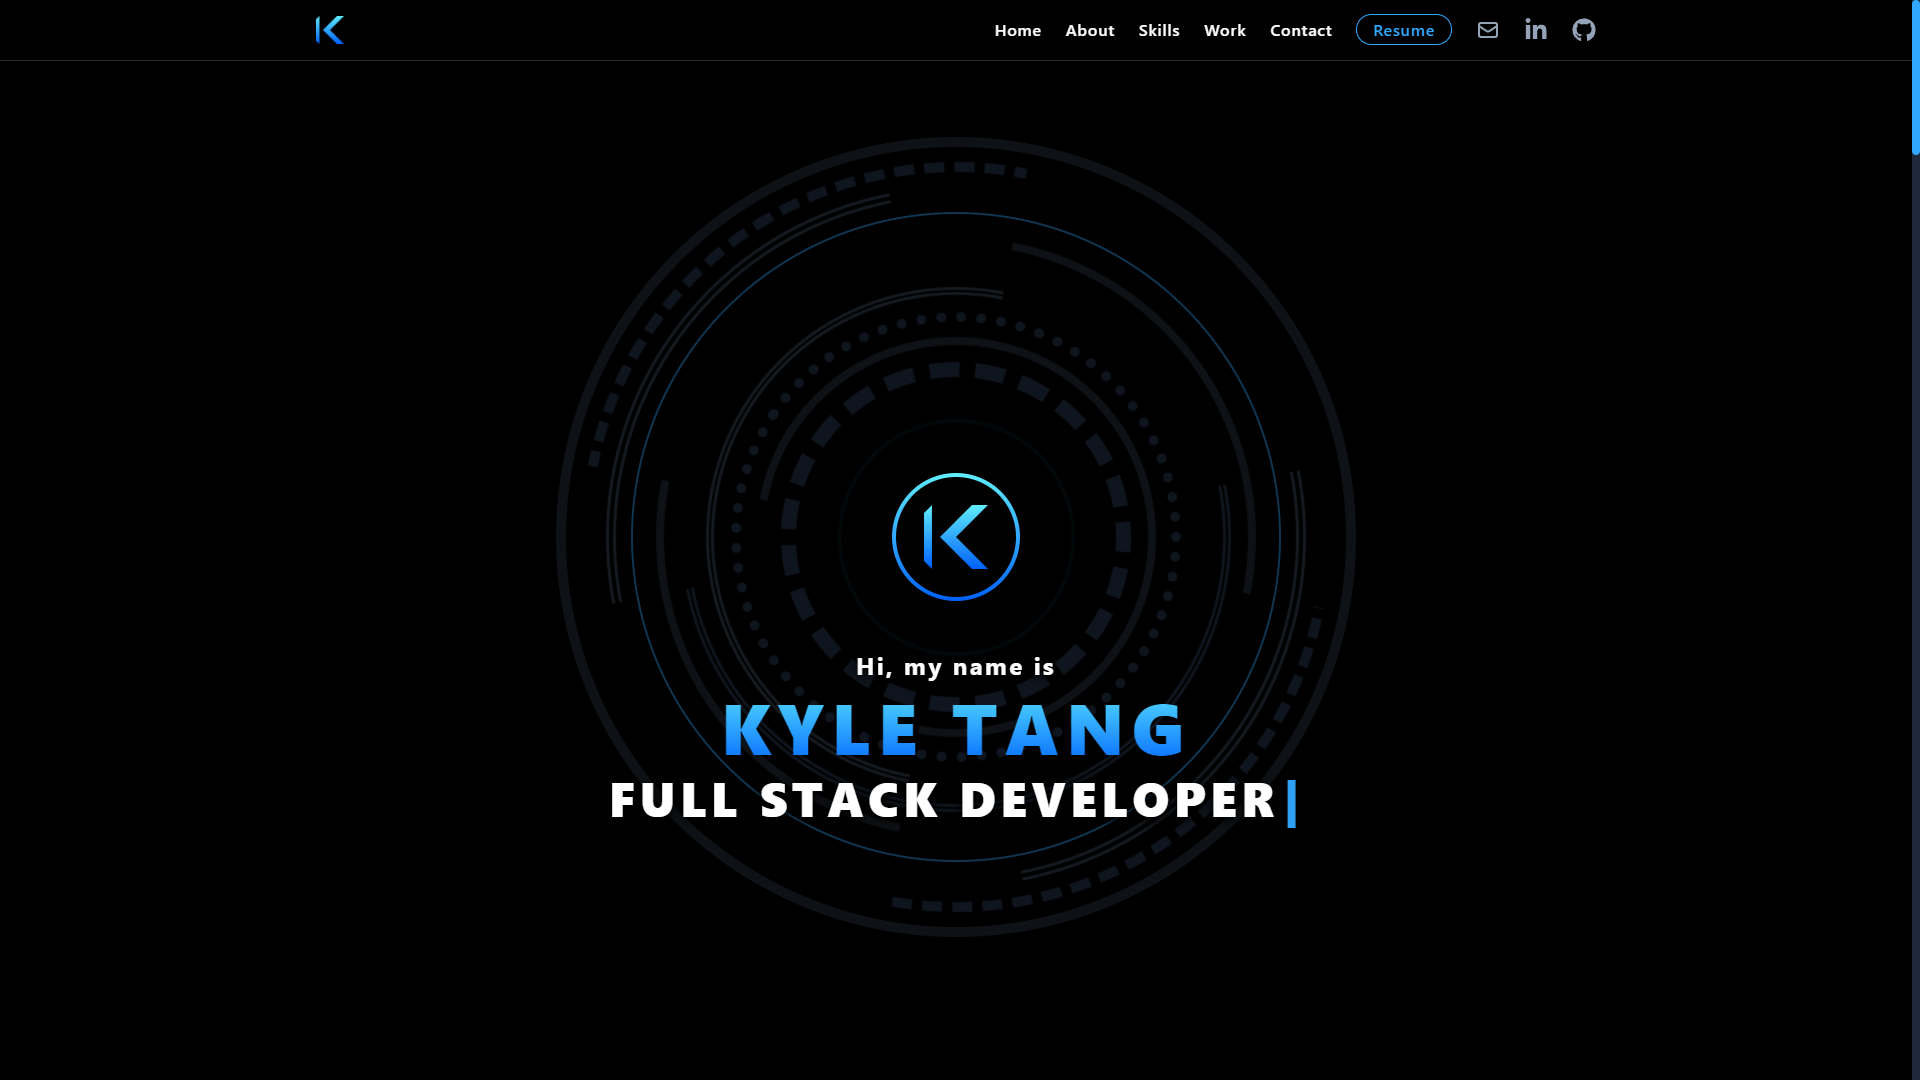
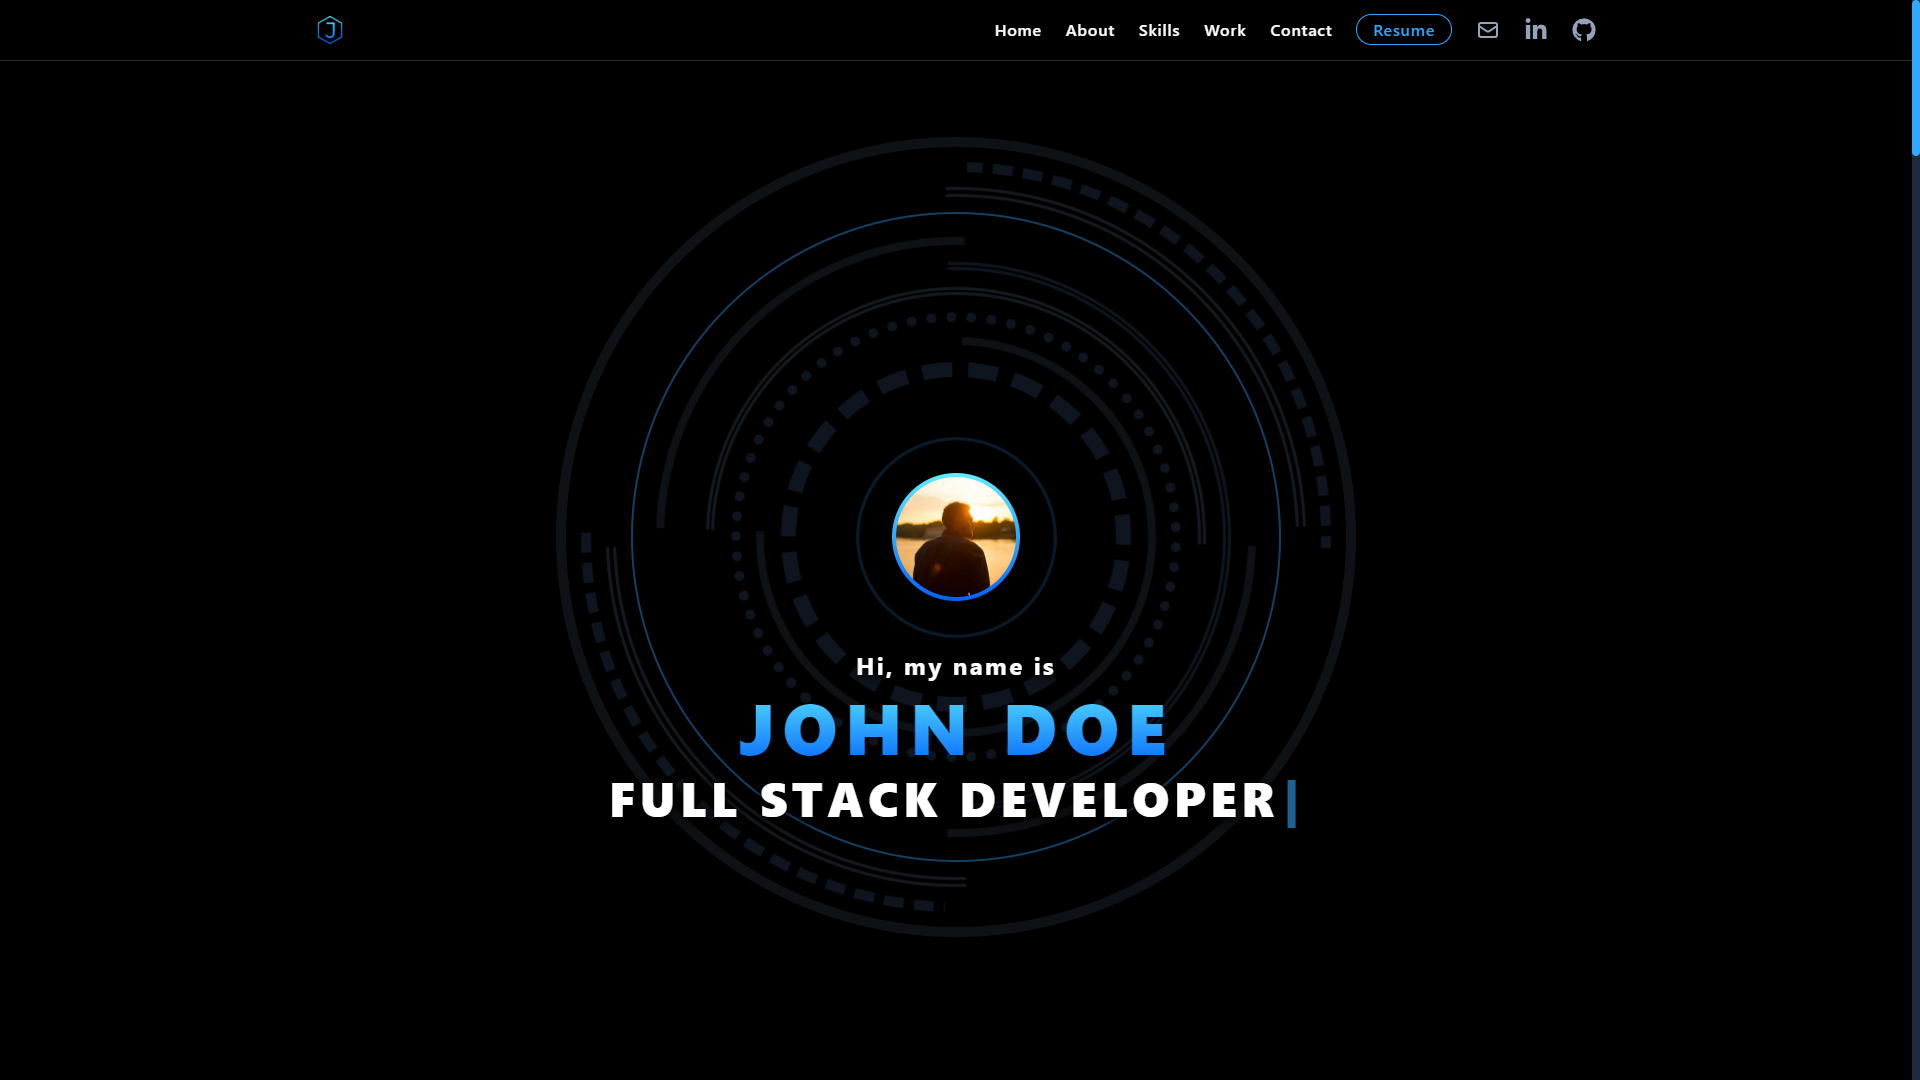
updated assets, constants, and sections with dummy information and images for demo

diff --git a/utils/constants.tsx b/utils/constants.tsx
@@ -2,56 +2,56 @@ import { FaGithub, FaLinkedinIn, FaRegSmileWink } from 'react-icons/fa';
 import { HiOutlineMail, HiCode, HiDatabase, HiOutlineDocumentText } from 'react-icons/hi';
 
 // Logo Image
-export const LogoImage = 'logo.svg';
+export const LogoImage = 'sample-logo.svg';
 
 // Profile Image
-export const profileImage = 'profile.png';
+export const profileImage = 'profile.jpg';
 
 // Name, will display in title, hero section, and footer
-export const devName = 'Kyle Tang';
+export const devName = 'John Doe';
 
 // Roles array for typewriter effect in hero
-export const roles = ['Full Stack Developer', 'Designer', 'Coder'];
+export const roles = ['Full Stack Developer', 'Software Engineer', 'Coffee Lover'];
 
 // Social URL Links
 export const socialLinks = [
   {
     name: 'email',
     icon: <HiOutlineMail />,
-    url: 'mailto:ktang1151@gmail.com',
+    url: 'mailto:example@email.com',
   },
   {
     name: 'linkedin',
     icon: <FaLinkedinIn />,
-    url: 'https://www.linkedin.com/in/kyle-tang-',
+    url: 'https://www.linkedin.com/',
   },
   {
     name: 'github',
     icon: <FaGithub />,
-    url: 'https://github.com/kt946',
+    url: 'https://github.com/',
   },
 ];
 
 // Resume URL link
-export const resumeLink = 'https://drive.google.com/file/d/1aUiFaAlnXzcr3Nrz8uu4RTZr9klqImxv/view?usp=sharing';
+export const resumeLink = '/';
 
 // Bio paragraphs for About section
 export const bioParagraphs = [
   {
     id: 'paragraph1',
-    text: `Hi everyone! My name is Kyle and I'm a full stack web developer with a B.A. in Psychology from Rutgers University and a passion for technology, creativity, and learning. I've completed a certificate in Full Stack Web Development from the Rutgers Coding Bootcamp.`,
+    text: `Lorem ipsum dolor sit amet consectetur, adipisicing elit. Ex earum tempore vel! Esse, autem? Dolorum est, iusto numquam dicta natus minima nihil recusandae, hic, commodi officia animi totam consequatur amet!`,
   },
   {
     id: 'paragraph2',
-    text: `As a quick learner and versatile problem-solver, I'm able to collaborate with teams to develop projects with simple, elegant designs and robust databases. I'm eager to demonstrate my newly acquired skills and build innovative applications that help me grow as a developer and provide users with immersive digital experiences.`,
+    text: `Lorem ipsum, dolor sit amet consectetur adipisicing elit. Provident magnam odio aut rerum! Eveniet esse, nulla repellendus, voluptatum asperiores exercitationem sunt dolorum veritatis pariatur iste, tempora officiis cupiditate magnam rem?`,
   },
   {
     id: 'paragraph3',
-    text: `When I'm not coding on my laptop, skimming through documentation, or searching Google for solutions to various issues, I enjoy cooking, movies, exercising, video games, playing guitar, and learning new skills and languages.`,
+    text: `Lorem ipsum dolor sit amet consectetur adipisicing elit. Repellendus, praesentium? Adipisci quaerat sit, doloremque temporibus neque excepturi deserunt earum laboriosam et velit! Minima, sequi debitis? Eligendi, rem aperiam. Est, impedit!`,
   },
   {
     id: 'paragraph4',
-    text: `And yes, I do like blue. Blue is cool.`,
+    text: `Lorem ipsum dolor sit amet consectetur adipisicing elit.`,
   },
 ];
 
@@ -59,15 +59,15 @@ export const bioParagraphs = [
 export const ctaData = {
   // for contact CTA
   contactCTA: {
-    message: `Don't be a stranger. Feel free to reach out and connect with me!`,
-    buttonMessage: 'Get in touch',
+    message: `A vero dolor libero molestias laborum est possimus repudiandae.`,
+    buttonMessage: 'To Contact',
     buttonIcon: <FaRegSmileWink />,
     linkURL: '#contact',
   },
   // for resume CTA
   resumeCTA: {
-    message: `Want to see more of what I can do? Check out my resume.`,
-    buttonMessage: 'To my resume',
+    message: `Officia ratione sunt fugit voluptas deserunt odit vitae ipsa!`,
+    buttonMessage: 'To Resume',
     buttonIcon: <HiOutlineDocumentText />,
     linkURL: resumeLink,
   },
@@ -79,51 +79,29 @@ export const skillCardData = [
   {
     id: 'frontEndSkills',
     icon: <HiCode />,
-    title: 'Front-End Development',
-    summary:
-      'I am passionate about bringing ideas to life and creating visually stunning projects using a variety of modern technologies and frameworks.',
-    skills: [
-      'HTML',
-      'CSS',
-      'JavaScript',
-      'TypeScript',
-      'jQuery',
-      'Responsive Design',
-      'Bootstrap',
-      'Bulma',
-      'React',
-      'Redux',
-      'Tailwind CSS',
-      'Next.js',
-      'Framer Motion',
-    ],
+    title: 'Developer',
+    summary: `Lorem ipsum dolor sit amet, consectetur adipisicing elit.`,
+    skills: ['HTML', 'CSS', 'JavaScript', 'TypeScript', 'Java', 'Python', 'C++'],
   },
   // for back-end
   {
     id: 'backEndSkills',
     icon: <HiDatabase />,
-    title: 'Back-End Development',
-    summary:
-      'I enjoy finding solutions to complex problems and developing powerful server-side code with a focus on efficiency and security.',
+    title: 'Engineer',
+    summary: `Lorem ipsum dolor sit, amet consectetur adipisicing elit.`,
     skills: [
-      'Git',
-      'Github',
+      'AWS',
+      'Azure',
       'JSON',
-      'AJAX',
+      'Google Cloud',
       'Node.js',
-      'NPM',
       'Express.js',
-      'REST',
+      'RESTful API',
       'SQL',
       'MySQL',
-      'Sequelize',
-      'MVC',
-      'Handlebars',
       'NoSQL',
       'MongoDB',
-      'Mongoose',
       'GraphQL',
-      'MERN',
     ],
   },
 ];
@@ -131,51 +109,51 @@ export const skillCardData = [
 // Project List for Work section
 export const projectList = [
   {
-    title: 'CodeFlow',
-    image: 'codeflow.png',
-    description: `CodeFlow is an interactive social media MERN stack SPA that gives developers a creative hub to show off their coding projects through posts, add friends, and join the discussion with other developers in threaded comments.`,
-    tech: ['MERN', 'GraphQL', 'JWT', 'Tagify', 'Bootstrap'],
-    projectLink: 'https://code-flow-app.herokuapp.com/',
-    githubLink: 'https://github.com/cnohilly/codeflow',
+    title: 'Project 1',
+    image: 'project-1.jpg',
+    description: `Lorem ipsum dolor sit amet consectetur, adipisicing elit. Sequi sunt pariatur quas aliquid fugit. Saepe magnam, dolores magni ipsa facilis similique quae cupiditate at non enim sunt eveniet dolorem animi.`,
+    tech: ['React.js', 'Node.js', 'Express.js', 'MongoDB', 'HTML/CSS'],
+    projectLink: '/',
+    githubLink: '/',
   },
   {
-    title: 'Watch It Later',
-    image: 'watch-it-later.png',
-    description: `A full-stack app allowing users to search for movies and TV shows, create accounts to add them to their personal watchlist saved in a SQL database, leave comments, and rate movies.`,
-    tech: ['Node', 'MySQL', 'Sequelize', 'Handlebars', 'Bulma', 'MVC', 'TMDB API'],
-    projectLink: 'https://watch-it-later.herokuapp.com/',
-    githubLink: 'https://github.com/cnohilly/watch-it-later',
+    title: 'Project 2',
+    image: 'project-2.jpg',
+    description: `Lorem ipsum dolor sit amet consectetur adipisicing elit. Reiciendis aut voluptatibus, aperiam quos, eos placeat nisi fugiat id temporibus minus magni dolorum necessitatibus non? Explicabo rem doloremque dolor debitis autem?`,
+    tech: ['Next.js', 'Tailwind CSS', 'PostgreSQL', 'TypeScript ', 'GraphQL'],
+    projectLink: '/',
+    githubLink: '/',
   },
   {
-    title: 'Movie TV Watchlist',
-    image: 'movie-tv-watchlist.png',
-    description: `Looking for something to watch? Use this app to search for movies and TV shows through the TMDB's API as well as add them to a personal watchlist saved in the browser's local storage.`,
-    tech: ['HTML', 'CSS', 'JavaScript', 'Bulma', 'TMDB API'],
-    projectLink: 'https://cnohilly.github.io/movie-tv-watchlist/',
-    githubLink: 'https://github.com/cnohilly/movie-tv-watchlist',
+    title: 'Project 3',
+    image: 'project-3.jpg',
+    description: `Lorem ipsum dolor sit amet consectetur adipisicing elit. Fugit rerum error veniam totam itaque ipsum soluta iusto, a, libero nesciunt, eum quidem consequatur modi dolore ad delectus at ducimus saepe.`,
+    tech: ['Svelte', 'Django', 'Redis', 'AWS Amplify', 'Kotlin '],
+    projectLink: '/',
+    githubLink: '/',
   },
   {
-    title: 'Shop-Shop',
-    image: 'shop-shop.png',
-    description: `An e-commerce full-stack MERN application that uses Redux to manage global state. Users can create accounts to add products to their shopping cart and checkout using the Stripe API.`,
-    tech: ['MERN', 'JavaScript', 'GraphQL', 'JWT', 'Stripe', 'Redux'],
-    projectLink: 'https://shop-shop-75043.herokuapp.com',
-    githubLink: 'https://github.com/kt946/awesome-shop-shop-redux',
+    title: 'Project 4',
+    image: 'project-4.jpg',
+    description: `Lorem ipsum dolor sit amet consectetur adipisicing elit. Sit, rerum neque nulla optio atque voluptates expedita! Porro veritatis nemo illo ex ea saepe dignissimos, a eum dolore fuga consequatur enim.`,
+    tech: ['Next.js', 'Flask', 'Elasticsearch', 'Kubernetes', 'Gatsby'],
+    projectLink: '/',
+    githubLink: '/',
   },
   {
-    title: 'Pizza Hunt',
-    image: 'pizza-hunt.png',
-    description: `Hungry for some pizza but can't decide on your toppings? Check out Pizza Hunt, an app that uses MongoDB to store custom pizza recipies and user comments.`,
-    tech: ['Node', 'Express', 'NoSQL', 'MongoDB', 'Mongoose'],
-    projectLink: 'https://pizza-hunt-13648.herokuapp.com/',
-    githubLink: 'https://github.com/kt946/pizza-hunt',
+    title: 'Project 5',
+    image: 'project-5.jpg',
+    description: `Lorem ipsum dolor sit amet consectetur adipisicing elit. Illo fugit dolore ipsum inventore ratione provident consequuntur in expedita odit, harum quod necessitatibus asperiores magni aut hic, dolorem officia saepe dignissimos.`,
+    tech: ['Ember.js', 'Spring', 'Cassandra', 'Firebase', 'Swift'],
+    projectLink: '/',
+    githubLink: '/',
   },
   {
-    title: 'The Epic Tech Blog',
-    image: 'the-epic-tech-blog.png',
-    description: `A CMS-style blog site using the MVC paradigm for discussing technology through blog posts and comments.`,
-    tech: ['Node', 'Express', 'MySQL', 'Handlebars', 'Bootstrap', 'MVC'],
-    projectLink: 'https://sheltered-mesa-54132.herokuapp.com',
-    githubLink: 'https://github.com/kt946/epic-tech-blog-MVC',
+    title: 'Project 6',
+    image: 'project-6.jpg',
+    description: `Lorem ipsum, dolor sit amet consectetur adipisicing elit. Enim, corporis illum cumque inventore, quibusdam tempora tempore, vitae cum minima similique consequatur deserunt ad molestiae esse commodi saepe. Eaque, rerum ipsa!`,
+    tech: ['JavaScript', 'HTML/CSS', 'React', 'Express', 'MongoDB'],
+    projectLink: '/',
+    githubLink: '/',
   },
 ];

diff --git a/components/Skills.tsx b/components/Skills.tsx
@@ -25,7 +25,7 @@ const Skills = (props: Props) => {
           className="mb-12 md:mb-24"
         >
           <h2 className="section-title">Skills</h2>
-          <h3 className="section-subtitle">Crafting digital solutions with style</h3>
+          <h3 className="section-subtitle">Sollicitudin tempor id eu nisl</h3>
         </motion.div>
 
         <motion.p
@@ -38,8 +38,8 @@ const Skills = (props: Props) => {
           transition={{ type: 'tween', ease: 'easeOut', duration: 1 }}
           className="section-subtitle-2"
         >
-          Web development is a never-ending quest, and I&apos;m always striving to improve myself, one skill set at a
-          time.
+          Lorem ipsum dolor sit amet consectetur adipisicing elit. Iste unde qui laborum cupiditate, nobis sequi dicta
+          assumenda ullam ducimus tempore ab doloremque labore rem a, blanditiis eos provident. Ratione, consequatur?
         </motion.p>
 
         {/* Skills Container */}
@@ -54,9 +54,11 @@ const Skills = (props: Props) => {
           className="w-full max-w-full flex flex-col md:flex-row justify-center space-y-8 md:space-y-0 md:space-x-8"
         >
           {skillCardData.map((skillCard) => (
-            <SkillCard key={skillCard.id} skillCard={skillCard} />
+            <SkillCard
+              key={skillCard.id}
+              skillCard={skillCard}
+            />
           ))}
-          
         </motion.div>
       </div>
     </section>

diff --git a/components/Hero.tsx b/components/Hero.tsx
@@ -3,7 +3,7 @@ import Image from 'next/image';
 import { motion } from 'framer-motion';
 import { Cursor, useTypewriter } from 'react-simple-typewriter';
 import BackgroundCircles from './BackgroundCircles';
-import { devName, LogoImage, roles } from '../utils/constants';
+import { devName, LogoImage, profileImage, roles } from '../utils/constants';
 
 type Props = {};
 
@@ -44,11 +44,11 @@ const Hero = (props: Props) => {
           {/* For personal brand Logo or profile image */}
           {/* If using profile image, increase width and height for image to cover object and remove "mx-auto" */}
           <Image
-            src={`/assets/${LogoImage}`}
+            src={`/assets/${profileImage}`}
             alt="Portfolio Logo"
-            width={64} // {128} for profile images
-            height={64} // {128} for profile images
-            className="mx-auto object-cover object-center" // use "mx-auto" to center logo
+            width={128} // {128} for profile images
+            height={128} // {128} for profile images
+            className="object-cover object-center" // use "mx-auto" to center logo
           />
         </div>
       </motion.div>

diff --git a/components/Contact.tsx b/components/Contact.tsx
@@ -52,7 +52,7 @@ const Contact = (props: Props) => {
           className="mb-12 md:mb-24"
         >
           <h2 className="section-title">Contact</h2>
-          <h3 className="section-subtitle">Let&apos;s build something incredible together!</h3>
+          <h3 className="section-subtitle">Ipsum dolor sit amet consectetur!</h3>
         </motion.div>
 
         {/* Section Comment */}
@@ -66,8 +66,7 @@ const Contact = (props: Props) => {
           transition={{ type: 'tween', ease: 'easeOut', duration: 1 }}
           className="section-subtitle-2"
         >
-          I&apos;m currently looking for full-time positions, but if you got an exciting opportunity you need help with
-          or you just want to say hi, fill out this awesome contact form below or connect with me on social media!
+          Lorem ipsum dolor sit amet consectetur adipisicing elit. Mollitia eveniet architecto amet, vel, tenetur deleniti quas animi tempora eius ad quaerat ipsa aperiam ea sint. Ipsa quis magnam placeat. Dolorem.
         </motion.p>
 
         <div className="w-full">

diff --git a/components/About.tsx b/components/About.tsx
@@ -27,7 +27,7 @@ const About = (props: Props) => {
           className="section-title-container"
         >
           <h2 className="section-title">About</h2>
-          <h3 className="section-subtitle">Me, Myself, and I</h3>
+          <h3 className="section-subtitle">Varius morbi enim nunc faucibus</h3>
         </motion.div>
 
         <div className="w-full flex flex-col md:flex-row items-center md:items-start gap-12">

diff --git a/components/Work.tsx b/components/Work.tsx
@@ -25,7 +25,7 @@ const Work = (props: Props) => {
           className="mb-12 md:mb-24"
         >
           <h2 className="section-title">Work</h2>
-          <h3 className="section-subtitle">A selection of my latest web development projects</h3>
+          <h3 className="section-subtitle">Convallis posuere morbi leo urnas</h3>
         </motion.div>
 
         {/* Project List Container */}

diff --git a/README.md b/README.md
@@ -1,7 +1,3 @@
-<p align="center">
-  <img src="./public/assets/logo.svg" width="150" alt="Personal Logo">
-</p>
-
 # My Next.js Portfolio
 
 [![License](https://img.shields.io/badge/License-MIT-blue)](https://opensource.org/licenses/MIT)
@@ -85,8 +81,6 @@ For additional personalization such as colors, headings, or extra social links, 
 - [kt946](https://github.com/kt946)
 
 ## Links
-
-- [Link to deployed application](https://github.com/kt946/my-nextjs-portfolio)
 
 - [Link to GitHub repository](https://github.com/kt946/my-nextjs-portfolio)
 
